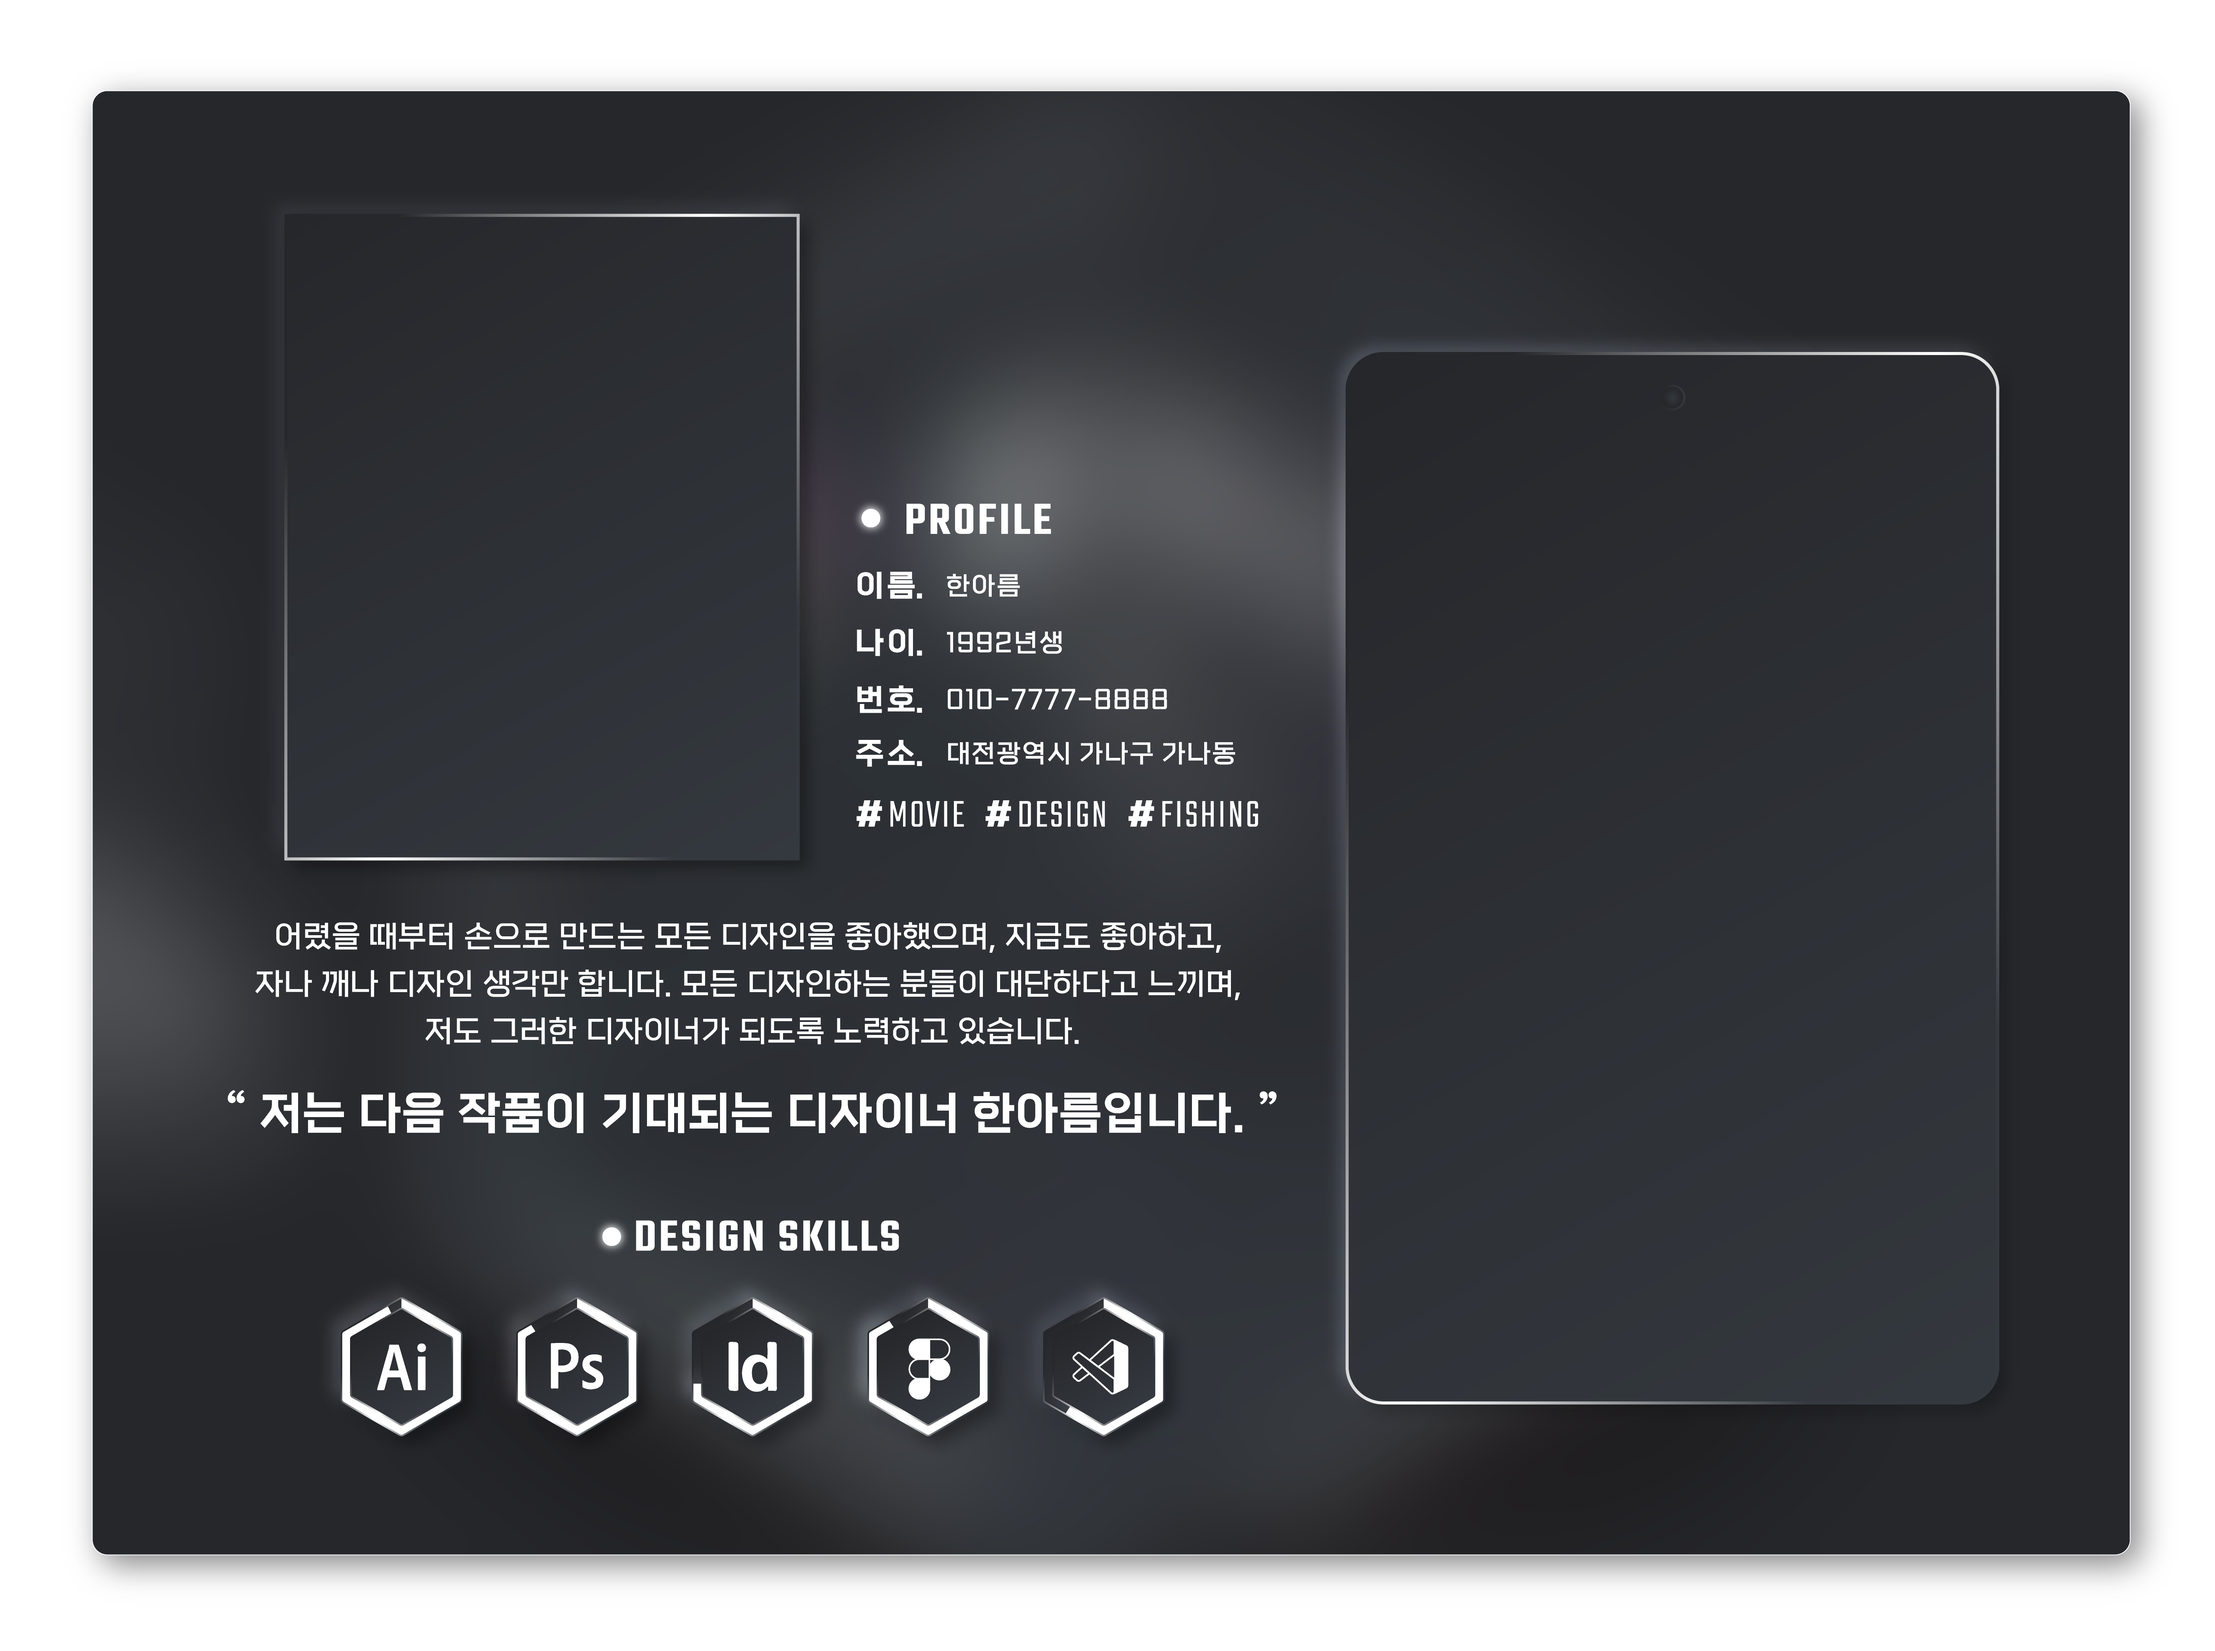
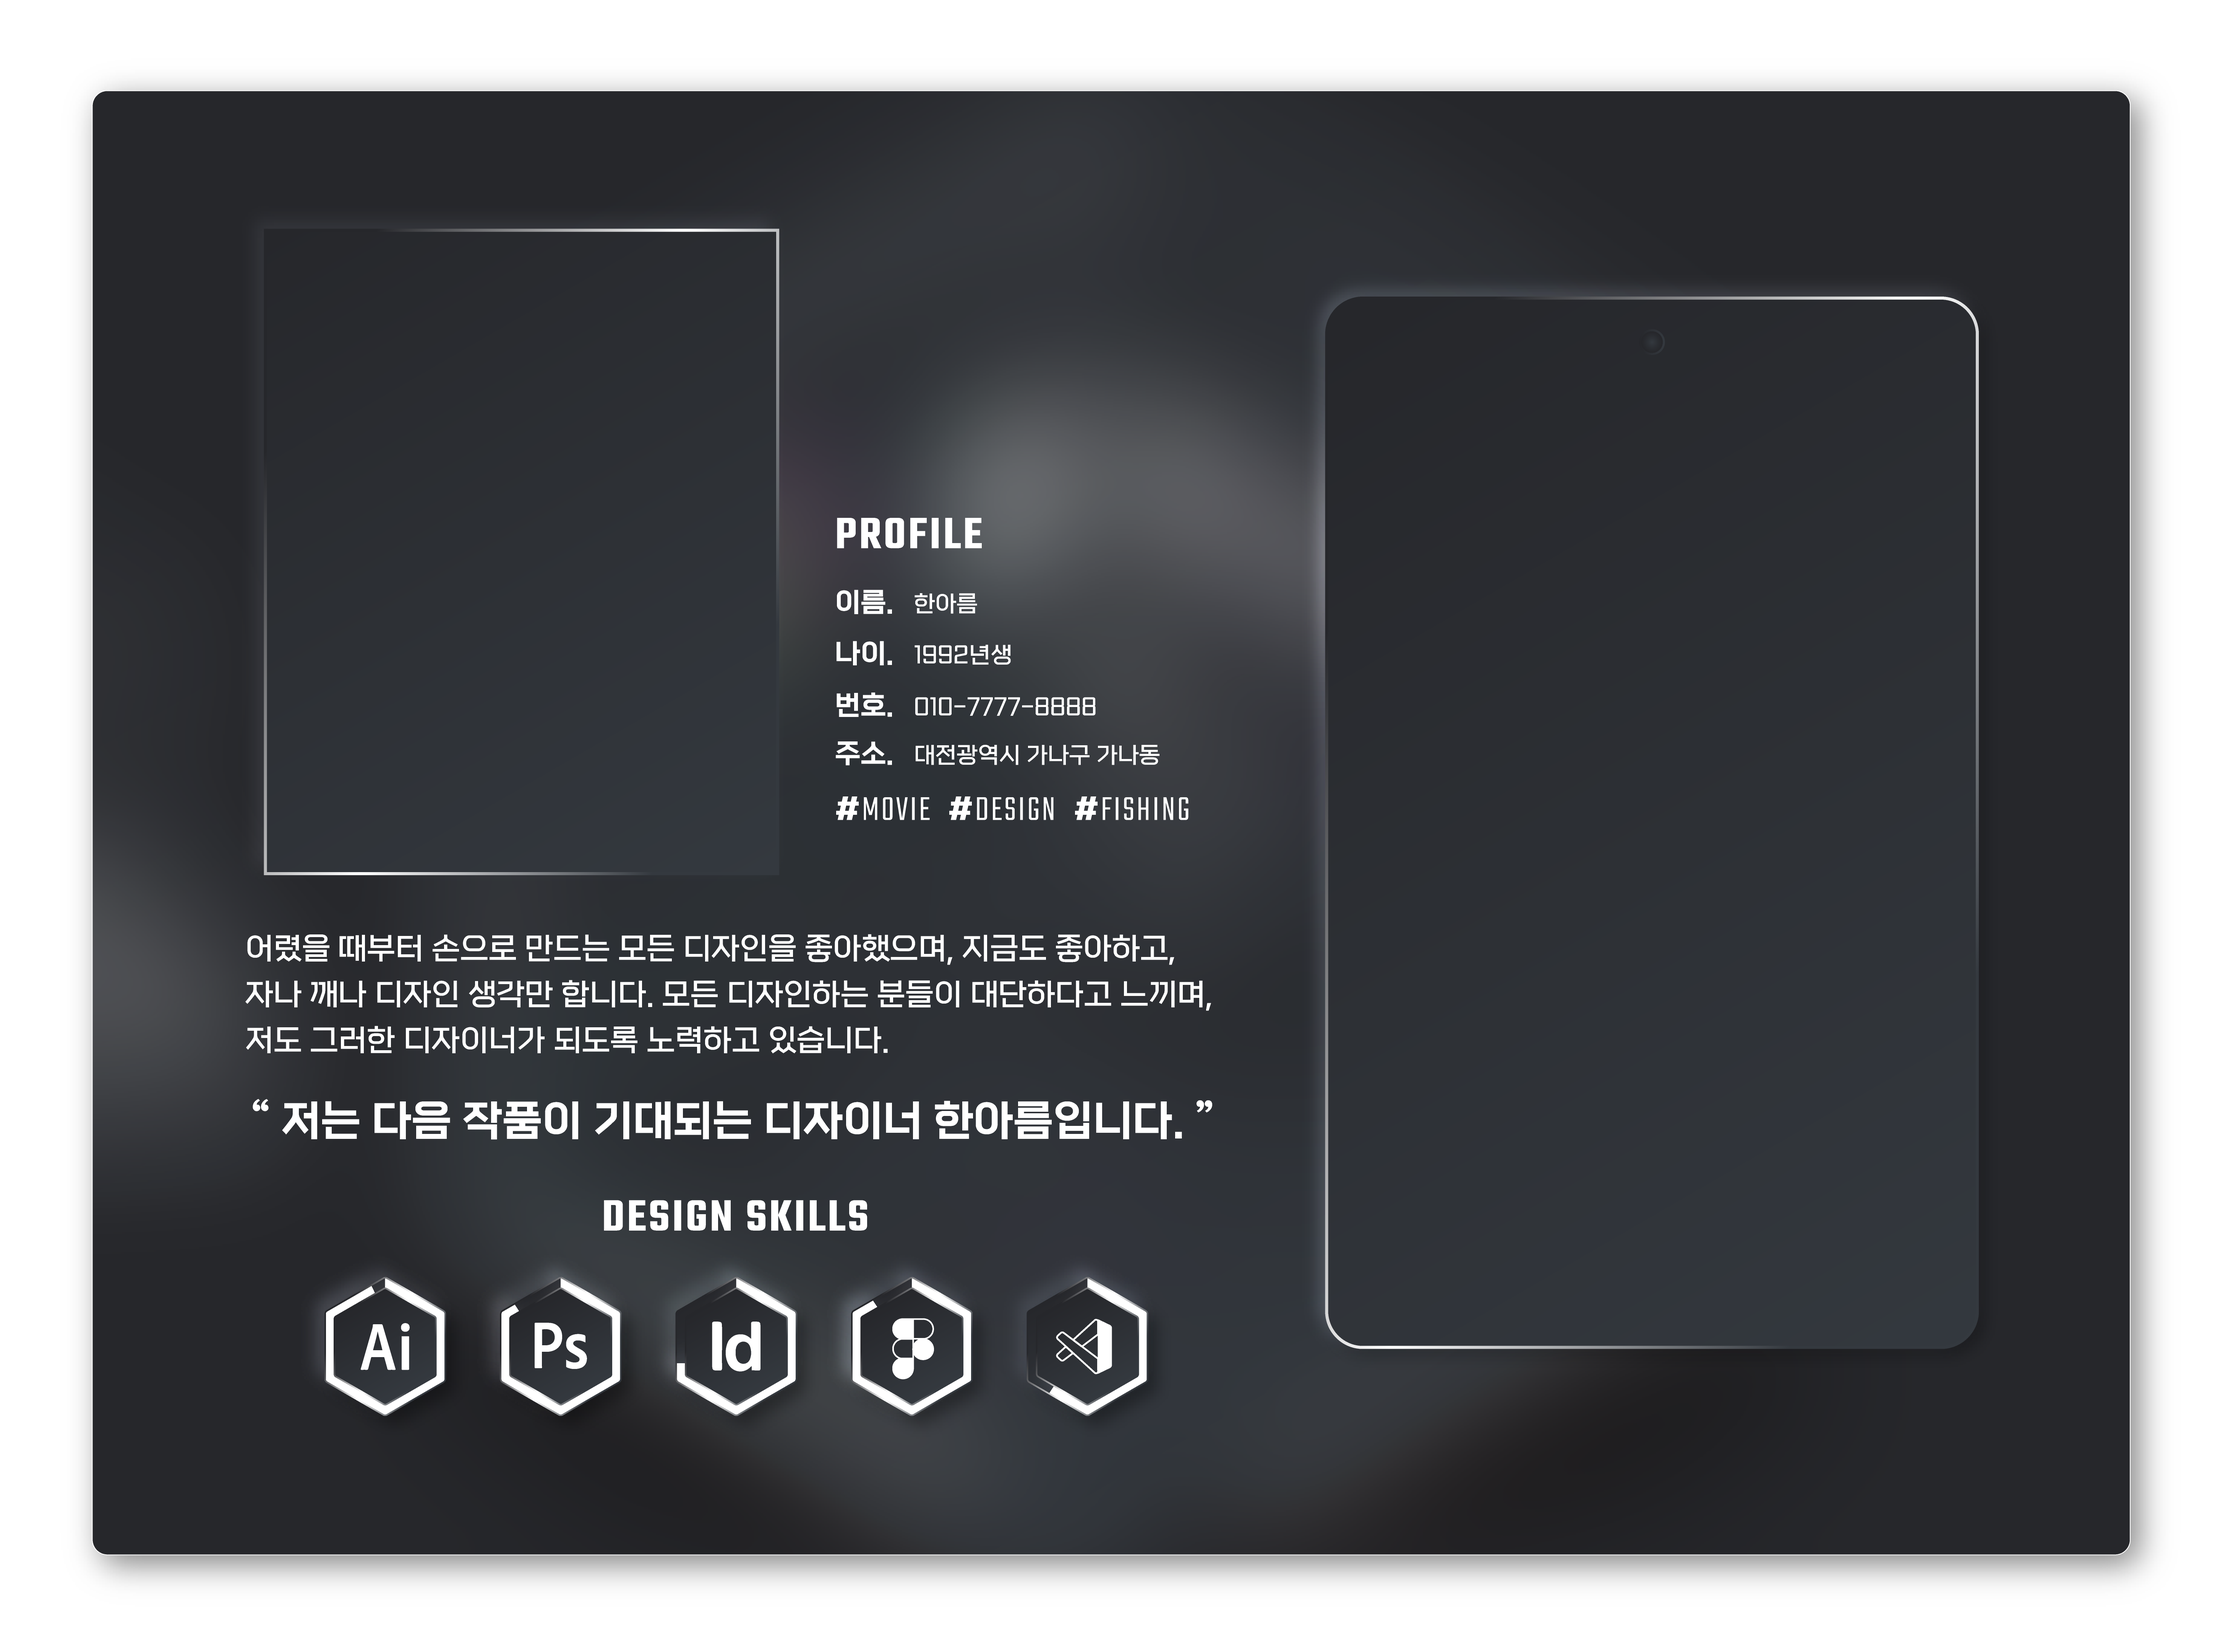
어바웃수정

diff --git a/resource/common.css b/resource/common.css
@@ -234,7 +234,7 @@ body {
 .bn_1_2_0_1 {
   position: absolute;
   top: calc(50% - 500px);
-  left: calc(50% - 443px);
+  left: calc(50% - 440px);
   width: 885px;
   height: 1022px;
 }
@@ -325,8 +325,8 @@ body {
   position: absolute;
   width: 423px;
   height: 545px;
-  top: calc(50% - 458px);
-  left: calc(50% - 610px);
+  top: calc(50% - 448px);
+  left: calc(50% - 621px);
 }
 
 /* 어바웃 카톡 */
@@ -334,8 +334,8 @@ body {
   position: absolute;
   width: 426px;
   height: 644px;
-  top: calc(50% - 270px);
-  left: calc(50% + 133px);
+  top: calc(50% - 300px);
+  left: calc(50% + 120px);
 }
 
 /* pf */
